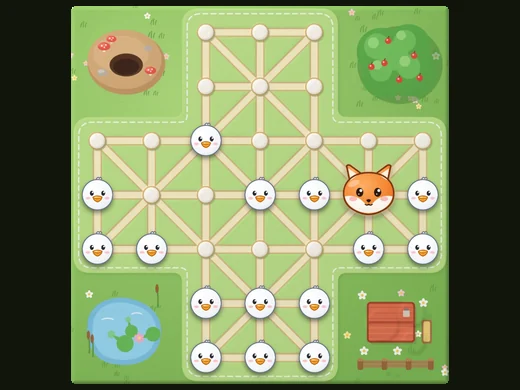
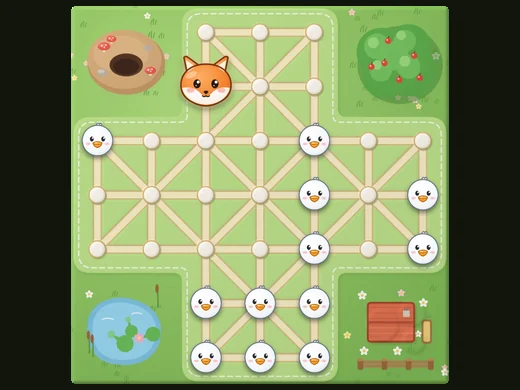
狐とガチョウ: TOP でタフルの次へ、狐が主役のアイコン、SS を既定デザインで撮り直し
Claude-Session: https://claude.ai/code/session_01EiWRAZQof2qofnKntpRWhP

diff --git a/index.html b/index.html
@@ -942,6 +942,7 @@ const GAMES = [
   { id:'xiangqi',    href:'./xiangqi/',       thumb:'images/xiangqi.webp?v=2', icon:'images/icons/xiangqi.svg',     cat:'chess',     kind:'BOARD GAME', key:'xq',   isNew:true,  tags:['classic','ai','online','rated','daily','lessons','puzzles','openings','mobile'], facts:{ ai:20, lessons:16, puzzles:543, players:'1–2' } },
   { id:'janggi',     href:'./janggi/',        thumb:'images/janggi.webp', icon:'images/icons/janggi.svg',     cat:'chess',     kind:'BOARD GAME', key:'jg',   isNew:true, beta:1,  tags:['classic','ai','online','rated','daily','lessons','puzzles','mobile'], facts:{ ai:20, lessons:15, puzzles:289, players:'1–2' } },
   { id:'tafl',       href:'./tafl/',          thumb:'images/tafl.webp?v=2',      icon:'images/icons/tafl.svg',        cat:'chess',     kind:'BOARD GAME', key:'tf',   isNew:true,  tags:['classic','ai','online','rated','daily','lessons','puzzles','openings','variants','mobile'], facts:{ ai:20, lessons:16, puzzles:390, players:'1–2' } },
+  { id:'foxgeese',   href:'./foxgeese/',      thumb:'images/foxgeese.webp?v=4',       icon:'images/icons/foxgeese.svg?v=2',       cat:'hist', also:['chess'], kind:'BOARD GAME', key:'fg',   isNew:true, alpha:true,  tags:['historical','ai','rated','daily','lessons','puzzles','variants','mobile'], facts:{ ai:20, lessons:6, puzzles:250, players:'1–2' } },
   { id:'checkers',   href:'./checkers/',       thumb:'images/checkers.webp?v=3',    icon:'images/icons/checkers.svg',    cat:'chess',     kind:'BOARD GAME', key:'ck',   isNew:true,  tags:['classic','ai','online','rated','daily','lessons','puzzles','openings','mobile'], facts:{ ai:20, lessons:13, puzzles:500, players:'1–2' } },
   { id:'ugolki',     href:'./ugolki/',        thumb:'images/ugolki.webp?v=2',      icon:'images/icons/ugolki.svg?v=3',      cat:'chess',     kind:'BOARD GAME', key:'ug',   isNew:true,  tags:['classic','ai','online','rated','daily','lessons','puzzles','openings','variants','mobile'], facts:{ ai:20, lessons:11, puzzles:144, players:'1–2' } },
   { id:'fanorona',   href:'./fanorona/',      thumb:'images/fanorona.webp?v=3',    icon:'images/icons/fanorona.svg?v=2',    cat:'chess',     kind:'BOARD GAME', key:'fn',   isNew:true,  tags:['classic','ai','online','rated','daily','lessons','puzzles','openings','variants','mobile'], facts:{ ai:20, lessons:12, puzzles:200, players:'1–2' } },
@@ -971,7 +972,6 @@ const GAMES = [
   { id:'ur',         href:'./ur/',            thumb:'images/ur.webp',          icon:'images/icons/ur.svg',          cat:'hist', also:['race'], kind:'BOARD GAME', key:'ur',   isNew:true,  tags:['historical','ai','online','rated','lessons','puzzles','variants','mobile'], facts:{ ai:20, players:'1–2' } },
   { id:'senet',      href:'./senet/',         thumb:'images/senet.webp?v=2',       icon:'images/icons/senet.svg?v=2',       cat:'hist', also:['race'], kind:'BOARD GAME', key:'sn',   isNew:true,  tags:['historical','ai','online','rated','lessons','puzzles','variants','mobile'], facts:{ ai:20, players:'1–2' } },
   { id:'latrunculi', href:'./latrunculi/',    thumb:'images/latrunculi.webp',     icon:'images/icons/latrunculi.svg',     cat:'hist', also:['chess'], kind:'BOARD GAME', key:'lt',   isNew:true, alpha:true,  tags:['historical','ai','rated','daily','lessons','puzzles','variants','mobile'], facts:{ ai:20, lessons:7, puzzles:250, players:'1–2' } },
-  { id:'foxgeese',   href:'./foxgeese/',      thumb:'images/foxgeese.webp?v=3',       icon:'images/icons/foxgeese.svg',       cat:'hist', also:['chess'], kind:'BOARD GAME', key:'fg',   isNew:true, alpha:true,  tags:['historical','ai','rated','daily','lessons','puzzles','variants','mobile'], facts:{ ai:20, lessons:6, puzzles:250, players:'1–2' } },
   { id:'patolli',    href:'./patolli/',       thumb:'images/patolli.webp',        icon:'images/icons/patolli.svg',        cat:'hist', also:['race'], kind:'BOARD GAME', key:'pt',   isNew:true, alpha:true,  tags:['historical','ai','rated','daily','lessons','puzzles','variants','mobile'], facts:{ ai:20, lessons:9, puzzles:200, players:'1–2' } },
   { id:'ludo',       href:'./ludo/',          thumb:'images/ludo.webp?v=3',          icon:'images/icons/ludo.svg',            cat:'race', also:['hist'], kind:'BOARD GAME', key:'ld',   isNew:true,          tags:['classic','ai','online','rated','lessons','variants','mobile'], facts:{ ai:20, lessons:10, players:'1–4' } },
   { id:'carrom',     href:'./atlas/#games/carrom', thumb:'images/carrom.webp?v=5',  icon:'images/icons/carrom.svg',          cat:'action', kind:'3D BOARD GAME', key:'cr',   isNew:true, tags:['classic','ai','online','rated','mobile'], facts:{ ai:20, players:'1–2' } },

diff --git a/atlas/gamelist.js b/atlas/gamelist.js
@@ -5,7 +5,7 @@
   'use strict';
   const SHOTS = new Set(['shogi', 'chess', 'checkers', 'ugolki', 'fanorona', 'alquerque', 'xiangqi', 'janggi', 'tafl', 'reversi', 'go', 'gomoku', 'dots', 'connect4', 'morris', 'hex',
     'mancala', 'backgammon', 'sudoku', 'speedsudoku', 'samegame', 'jailbreak', 'poker', 'baccarat', 'blackjack', 'solitaire', 'ur', 'agon', 'konane', 'senet', 'ludo', 'carrom', 'crokinole', 'hockey', 'botao', 'amazons', 'peg', 'shanghai', 'latrunculi', 'foxgeese', 'patolli']);
-  const SHOT_V = 32;                                   // bump after regenerating the thumbnails
+  const SHOT_V = 33;                                   // bump after regenerating the thumbnails
   const FX = ['ai', 'online', 'lessons', 'puzzles'];  // the feature icons shown on a card (labels come from the tag.* strings)
 
   const IC = {   // small line icons for the footer buttons

diff --git a/atlas/index.html b/atlas/index.html
@@ -2365,7 +2365,7 @@ window.AtlasRgdTimer = function (btn, ms, alive) {
 .rsg-ov.draw .rsg-flag{color:#b8862a!important}</style>
 <script src="../shared/resign.js?v=3"></script><script src="../shared/drawoffer.js?v=1"></script>
 <script src="../shared/tick.js?v=2"></script>
-<script src="gamelist.js?v=46"></script>
+<script src="gamelist.js?v=47"></script>
 <link rel="stylesheet" href="worldmap.css?v=18">
 <script src="worldmap.js?v=40"></script>
 <script src="npc/npc.js?v=43"></script>

diff --git a/claude/foxgeese-spec.md b/claude/foxgeese-spec.md
@@ -112,7 +112,7 @@ URL: https://core-calmdust.github.io/aicoding/foxgeese/ （cat: hist＝ヒスト
 - **3Dルールコース**（`atlas/rules/foxgeese.js`、案内はドミダック `av/duck-0`、10ステップ）：紹介 → 盤と駒 → 狐の動き → 跳び越えて取る → 続けて跳ぶ → ガチョウの動き → 後ろを守る → ガチョウの勝ち → 狐の勝ち → 4つのルール。エンジンは g15（ガチョウは後退しない）、盤・最後のステップは15羽の配置。課題の正解はエンジンで判定。3D盤には座標がないので点の名前を言わない（「光っている点」）。
 - **ヒストリア**（`atlas/historia/s/foxgeese.json`＋14言語）：この spec と 2D の紹介文にある事実だけで構成（『グレティルのサガ』のハラタフル・遅くとも14世紀・エドワード4世の駒・ヴィクトリア女王・「狐とめんどり」「狼と羊」・ペグ・ソリテールと同じ盤・13羽と17羽）。盤の図は十字形（`atlas/historia.js` の grid に `cross` を追加）。地図のピン＝アイスランド・イングランド・フランス・ロシア（伝わった道筋は資料にないので線は引かない）。
 - **ボスと観戦キャラ**（`atlas/npc/roster.js`・`atlas/npc/t/<lang>.js`、14言語）：ボス7体（ネボガチョ → ハタケッコ → サガメェ → ロイヤルワン → オイカケガミ → マジェスグース → エドワツネ＝UR）。画像 `images/atlas/av/boss-foxgeese-<1〜7>-<0〜3>.webp`。豆知識4行。
-- **トップページ**：`index.html` の一覧（ラトルンクロルムの次、`alpha:true`）、アイコン `images/icons/foxgeese.svg`、JSON-LD。ゲーム一覧のサムネ `atlas/shots/foxgeese.webp`。
+- **トップページ**：`index.html` の一覧（**タフルの次**。2026-11-18 ユーザー。それまではラトルンクロルムの次、`alpha:true`）、アイコン `images/icons/foxgeese.svg`（2026-11-18：既定のひだまり牧場の可愛い狐を主役に、ガチョウがのぞく図）、JSON-LD。SS は既定のデザイン（ひだまり牧場×きつね＆がちょう）の対局途中。ゲーム一覧のサムネ `atlas/shots/foxgeese.webp`。
 - Praline のマーク・mtsplit／tools/mtsim は対象外（1スレッドの JS エンジン）。
 
 ## 未着手（次の作業）
